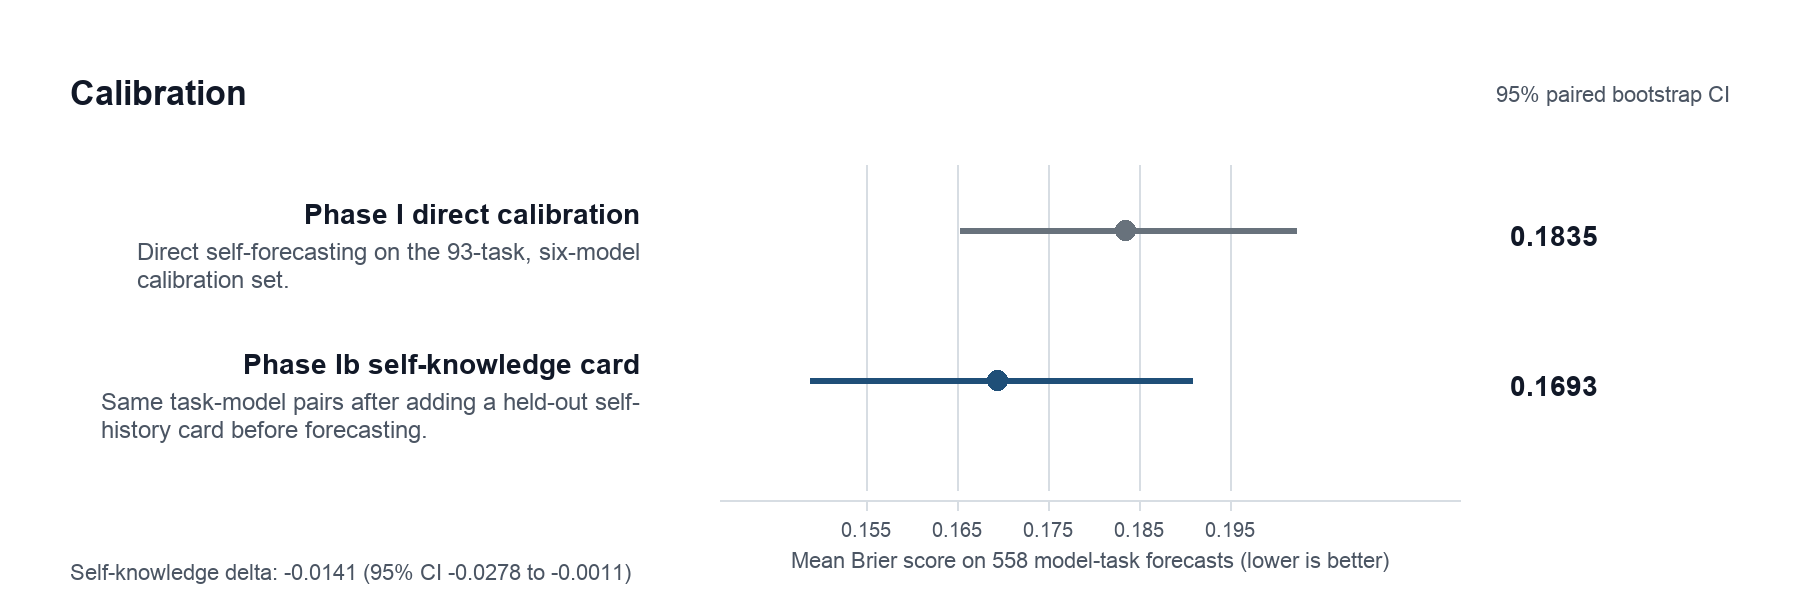
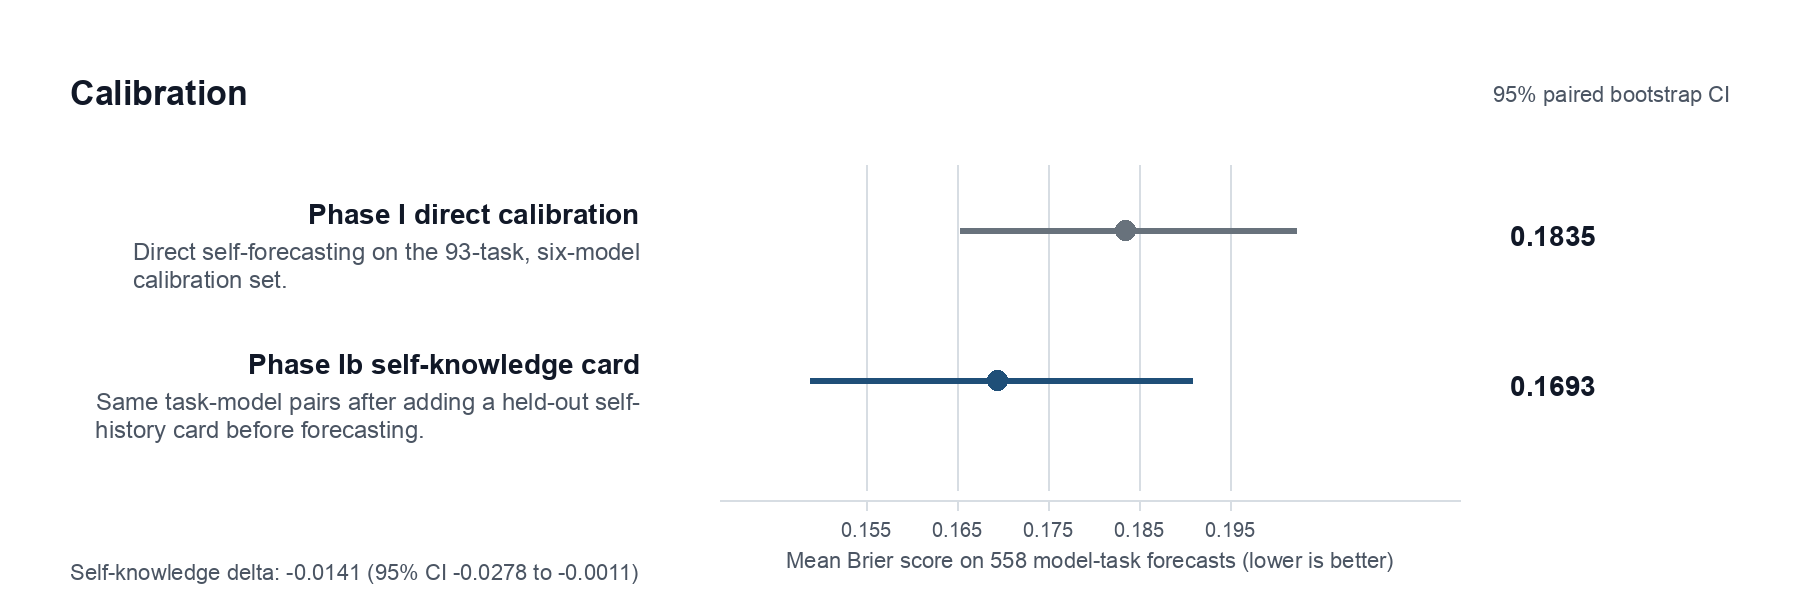
docs: clarify benchmark figure labels
Rename the public benchmark figure and labels in plainer language, switch to 15-minute and 30-minute budget wording, and explain why budget length matters to the comparison.

diff --git a/scripts/render_page1_split_figures.py b/scripts/render_page1_split_figures.py
@@ -208,67 +208,67 @@ def _load_live_entries(
 
     return [
         LiveEntry(
-            label="Oracle ceiling",
-            definition="Best external single-model answer available in hindsight on each task.",
+            label="Best external model per task",
+            definition="Upper bound formed by taking the best externally scaffolded single-model result on each task in hindsight.",
             passes=oracle_passes,
             total=oracle_total,
-            group="External reference",
+            group="Reference runs",
             color="#1f2933",
         ),
         LiveEntry(
-            label="External GPT-5.2 baseline",
+            label="External GPT-5.2 run",
             definition="Single GPT-5.2 run on the standard external SWE-bench scaffold.",
             passes=external_gpt52_passes,
             total=external_gpt52_total,
-            group="External reference",
+            group="Reference runs",
             color="#364152",
         ),
         LiveEntry(
-            label="Diagnostic Codex + GPT-5.2",
-            definition="Single-model diagnostic on the Codex path with an 1800-second task budget.",
+            label="30-minute Codex diagnostic",
+            definition="Single-model Codex-path diagnostic with a 30-minute per-task budget.",
             passes=diagnostic_passes,
             total=diagnostic_total,
-            group="External reference",
+            group="Reference runs",
             color="#425466",
         ),
         LiveEntry(
-            label="Published market scaffold",
-            definition="Original six-worker 900-second Phase II market result from the published scaffold.",
+            label="Original six-model market run",
+            definition="Original Phase II six-model market run with a 15-minute per-task budget.",
             passes=published_market_passes,
             total=published_market_total,
-            group="Published Phase II scaffold",
+            group="Original 15-minute scaffold",
             color="#67717d",
         ),
         LiveEntry(
-            label="Published solo GPT-5.2 scaffold",
-            definition="One GPT-5.2 worker on that same original 900-second Phase II scaffold.",
+            label="Original solo GPT-5.2 run",
+            definition="Original Phase II single-model GPT-5.2 run with that same 15-minute budget.",
             passes=published_solo_passes,
             total=published_solo_total,
-            group="Published Phase II scaffold",
+            group="Original 15-minute scaffold",
             color="#8a949f",
         ),
         LiveEntry(
-            label="Hard-prior market",
-            definition="Same matched six-worker rerun, but bids start from a held-out calibration prior.",
+            label="Market with calibration prior",
+            definition="Matched six-model rerun with the same 15-minute budget, but bids start from a held-out calibration prior.",
             passes=hard_prior_passes,
             total=hard_prior_total,
-            group="Matched rerun family",
+            group="Matched 15-minute rerun",
             color="#1f4f78",
         ),
         LiveEntry(
-            label="Matched centralized router",
-            definition="Same six workers, verifier, and limits as the matched rerun, with a centralized chooser.",
+            label="Central router on matched rerun",
+            definition="Matched six-model rerun with the same 15-minute budget and a centralized chooser.",
             passes=matched_central_passes,
             total=matched_central_total,
-            group="Matched rerun family",
+            group="Matched 15-minute rerun",
             color="#3a6076",
         ),
         LiveEntry(
-            label="Matched market rerun",
-            definition="Same six-worker matched rerun using the original market-clearing rule.",
+            label="Original market rule on matched rerun",
+            definition="Matched six-model rerun with the same 15-minute budget and the original market-clearing rule.",
             passes=matched_market_passes,
             total=matched_market_total,
-            group="Matched rerun family",
+            group="Matched 15-minute rerun",
             color="#5f7f93",
         ),
     ]
@@ -463,11 +463,7 @@ def _render_live_performance(
     top = 64
     axis_y = 1070
 
-    group_order = [
-        "External reference",
-        "Published Phase II scaffold",
-        "Matched rerun family",
-    ]
+    group_order = ["Reference runs", "Original 15-minute scaffold", "Matched 15-minute rerun"]
     group_to_entries: dict[str, list[LiveEntry]] = {group: [] for group in group_order}
     for entry in entries:
         group_to_entries.setdefault(entry.group, []).append(entry)
@@ -490,7 +486,7 @@ def _render_live_performance(
         span = x_max - x_min
         return int(plot_left + ((value - x_min) / span) * (plot_right - plot_left))
 
-    draw.text((left, top), "Live task performance", font=title_font, fill=INK)
+    draw.text((left, top), "50-task benchmark comparison", font=title_font, fill=INK)
     meta_label = "95% Wilson CI"
     meta_bbox = draw.textbbox((0, 0), meta_label, font=small_font)
     draw.text(
@@ -548,8 +544,11 @@ def _render_live_performance(
         draw.text((value_left, y - 10), f"{entry.passes}/{entry.total}", font=body_bold, fill=INK)
 
     footer = (
-        "Key distinction: the 23 to 28 change is inside the matched rerun family. "
-        "The older 29/50 published market result comes from a separate earlier scaffold run."
+        "Budget note: the Codex diagnostic uses a 30-minute per-task budget. "
+        "The original and matched Phase II runs use 15 minutes per task, so time budget affects performance independently of routing."
+        "\n"
+        "Comparison note: the 23 to 28 change is inside the matched rerun. "
+        "The older 29/50 original six-model market run comes from a separate earlier setup."
     )
     _draw_text(
         draw, (left, 1170), textwrap.fill(footer, width=128), font=small_font, fill=MUTED, spacing=6

diff --git a/README.md b/README.md
@@ -178,22 +178,24 @@ For the SWE-bench evaluation writeup (market vs solo vs external baselines), see
 
 Phase I direct calibration is the original 93-task, six-model self-forecasting run. Phase Ib self-knowledge card reruns those same task-model pairs after showing a held-out self-history card. Error bars are 95% paired bootstrap intervals over all 558 forecast rows.
 
-#### Live 50-task performance
+#### 50-task benchmark comparison
 
-![Live 50-task performance summary](docs/research/report/data/page1_live_performance_summary.png)
+![50-task benchmark comparison](docs/research/report/data/page1_live_performance_summary.png)
 
-This figure separates three families that the old ladder mixed together: external reference runs, the older published Phase II scaffold, and the later matched rerun family. The key within-family change is `23 / 50` to `28 / 50`: the matched market rerun versus the hard-prior market. The older published market result at `29 / 50` is a separate earlier scaffold run, not the start of that `23 -> 28` sequence.
+This figure separates three families that the old ladder mixed together: reference runs, the original `15` minute Phase II scaffold, and the later matched `15` minute rerun. The key within-family change is `23 / 50` to `28 / 50`: the original market rule on the matched rerun versus the market with a calibration prior. The older `29 / 50` original six-model market run is a separate earlier scaffold run, not the start of that `23 -> 28` sequence.
 
 Label guide:
 
-- `Oracle ceiling`: best external single-model answer available in hindsight on each task in the common 50-task slice.
-- `External GPT-5.2 baseline`: one fixed GPT-5.2 run on the standard external SWE-bench scaffold.
-- `Diagnostic Codex + GPT-5.2`: single-model diagnostic on the Codex path with an `1800` second budget.
-- `Published market scaffold`: the original six-worker `900` second Phase II market result from the published scaffold.
-- `Published solo GPT-5.2 scaffold`: one GPT-5.2 worker on that same original `900` second Phase II scaffold.
-- `Hard-prior market`: the matched six-worker rerun after adding a held-out calibration prior to the bid prompt.
-- `Matched centralized router`: the same six workers, verifier, and limits as the matched rerun, but with a centralized chooser.
-- `Matched market rerun`: the same six-worker matched rerun using the original market-clearing rule.
+- `Best external model per task`: the best externally scaffolded single-model result on each task, chosen in hindsight.
+- `External GPT-5.2 run`: one fixed GPT-5.2 run on the standard external SWE-bench scaffold.
+- `30-minute Codex diagnostic`: single-model Codex-path diagnostic with a `30` minute per-task budget.
+- `Original six-model market run`: the original Phase II six-model market run with a `15` minute per-task budget.
+- `Original solo GPT-5.2 run`: the original Phase II single-model GPT-5.2 run with that same `15` minute budget.
+- `Market with calibration prior`: the matched six-model rerun with the same `15` minute budget, but with a held-out calibration prior added to the bid prompt.
+- `Central router on matched rerun`: the matched six-model rerun with the same `15` minute budget and a centralized chooser.
+- `Original market rule on matched rerun`: the matched six-model rerun with the same `15` minute budget and the original market-clearing rule.
+
+Time budget matters because it changes how long the worker can keep editing, running tests, and recovering from dead ends. That is why the `30` minute Codex diagnostic sits in the reference group rather than inside the matched `15` minute comparison.
 
 The latest live follow-up is **Phase IId: Market Calibration Intervention**. That run keeps the same six-worker market setup but changes the private bid note so workers start from a held-out calibration prior before bidding. The main Phase IId result is **28 / 50**, versus **23 / 50** for the matched Phase IIb market rerun and **27 / 50** for the matched centralized router. That puts the hard-prior market one task behind the older published market result at **29 / 50**. The detailed Phase II note keeps the audit trail for the follow-up cleanup reruns behind this final Phase IId count: [Phase IIb / IId report](docs/research/report/10_PHASE_2B_CENTRAL_ROUTER_BASELINE_2026-04-07.md).
 

diff --git a/docs/research/report/00_EXECUTIVE_SUMMARY.md b/docs/research/report/00_EXECUTIVE_SUMMARY.md
@@ -13,22 +13,24 @@ Can a competitive market of LLMs outperform any single model? We tested this on 
 
 Phase I direct calibration asks each model to forecast its own success directly on the 93-task, six-model calibration set. Phase Ib self-knowledge card reruns those same task-model pairs after showing a held-out self-history card before forecasting. The figure reports mean Brier score with 95% paired bootstrap intervals over the full 558 forecast rows.
 
-## Live 50-Task Performance
+## 50-Task Benchmark Comparison
 
-![Live 50-task performance summary](data/page1_live_performance_summary.png)
+![50-task benchmark comparison](data/page1_live_performance_summary.png)
 
 Label guide:
 
-- `Oracle ceiling`: best external single-model answer available in hindsight on each task in the common 50-task slice.
-- `External GPT-5.2 baseline`: one fixed GPT-5.2 run on the standard external SWE-bench scaffold.
-- `Diagnostic Codex + GPT-5.2`: single-model diagnostic on the Codex path with an `1800` second budget; useful as a ceiling check, not a matched benchmark.
-- `Published market scaffold`: the original six-worker `900` second Phase II market result from the published scaffold.
-- `Published solo GPT-5.2 scaffold`: one GPT-5.2 worker on that same original `900` second Phase II scaffold.
-- `Hard-prior market`: the matched six-worker rerun after adding a held-out calibration prior to the bid prompt.
-- `Matched centralized router`: the same six workers, verifier, and limits as the matched rerun, but with a centralized chooser.
-- `Matched market rerun`: the same six-worker matched rerun using the original market-clearing rule.
+- `Best external model per task`: the best externally scaffolded single-model result on each task, chosen in hindsight.
+- `External GPT-5.2 run`: one fixed GPT-5.2 run on the standard external SWE-bench scaffold.
+- `30-minute Codex diagnostic`: single-model Codex-path diagnostic with a `30` minute per-task budget. This is a reference point, not a matched scaffold comparison.
+- `Original six-model market run`: the original Phase II six-model market run with a `15` minute per-task budget.
+- `Original solo GPT-5.2 run`: the original Phase II single-model GPT-5.2 run with that same `15` minute budget.
+- `Market with calibration prior`: the matched six-model rerun with the same `15` minute budget, but with a held-out calibration prior added to the bid prompt.
+- `Central router on matched rerun`: the matched six-model rerun with the same `15` minute budget and a centralized chooser.
+- `Original market rule on matched rerun`: the matched six-model rerun with the same `15` minute budget and the original market-clearing rule.
 
-The clean mechanism comparison sits inside the matched rerun family. The market moves from `23 / 50` to `28 / 50` when the bid prompt starts from a held-out calibration prior, while the older `29 / 50` published market result remains a separate earlier scaffold run rather than the start of that `23 -> 28` sequence.
+Time budget matters because it changes how long the worker can keep editing, running tests, and recovering from dead ends. That is why the `30` minute Codex diagnostic sits in the reference group rather than in the matched `15` minute comparisons.
+
+The clean mechanism comparison sits inside the matched rerun group. The market moves from `23 / 50` to `28 / 50` when the bid prompt starts from a held-out calibration prior, while the older `29 / 50` original six-model market run remains a separate earlier scaffold run rather than the start of that `23 -> 28` sequence.
 
 ---
 
